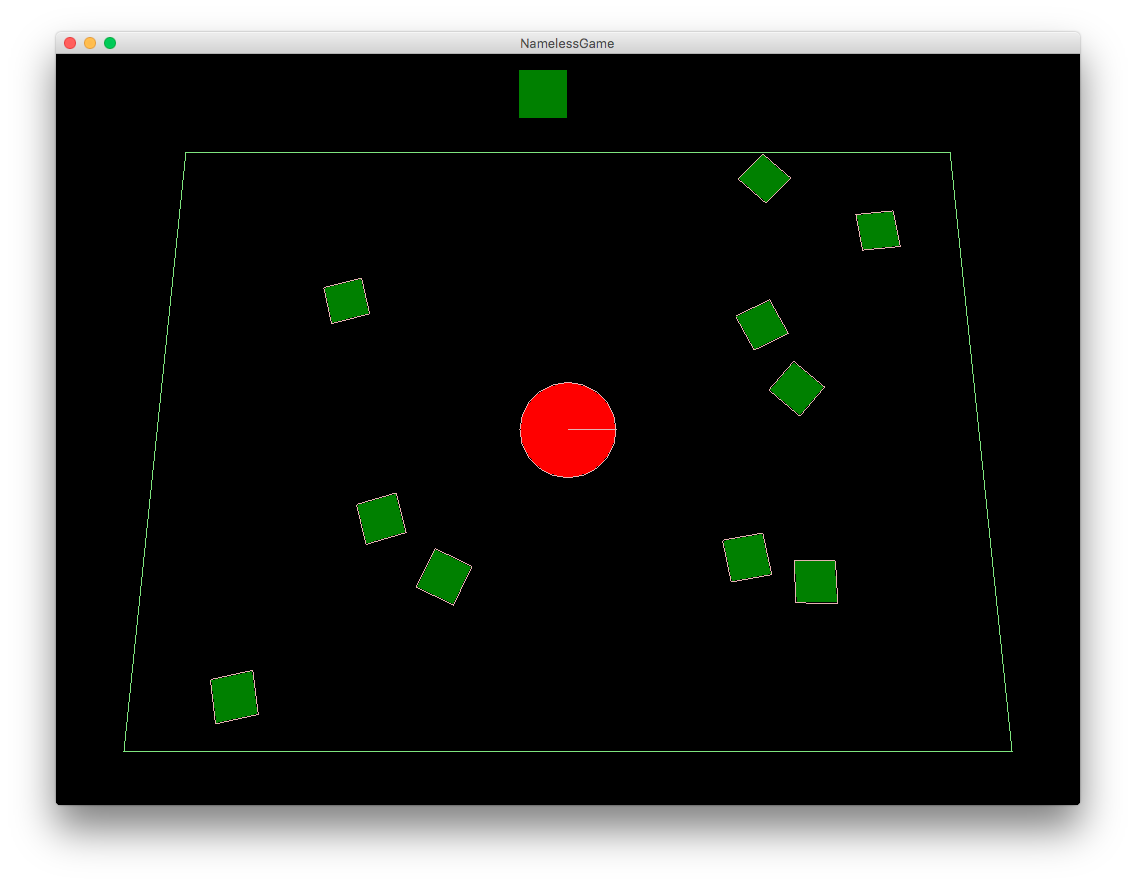
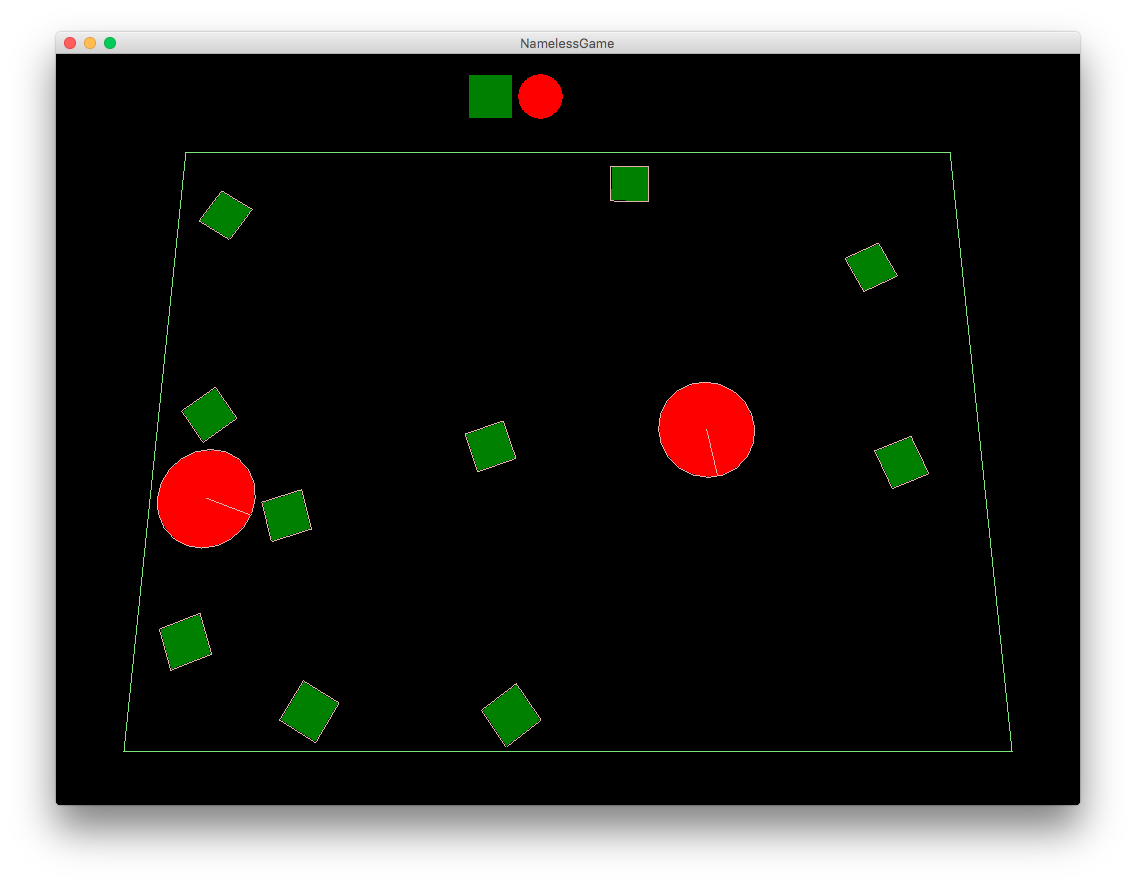
Changed current game image.

diff --git a/README.md b/README.md
@@ -1,5 +1,5 @@
 ### Current game as of 2016-05-20
-![](current_game_2016-05-20.png)
+![](current_game_2016_05_20.png)
 
 ### Installation (Desktop)
 TBA
